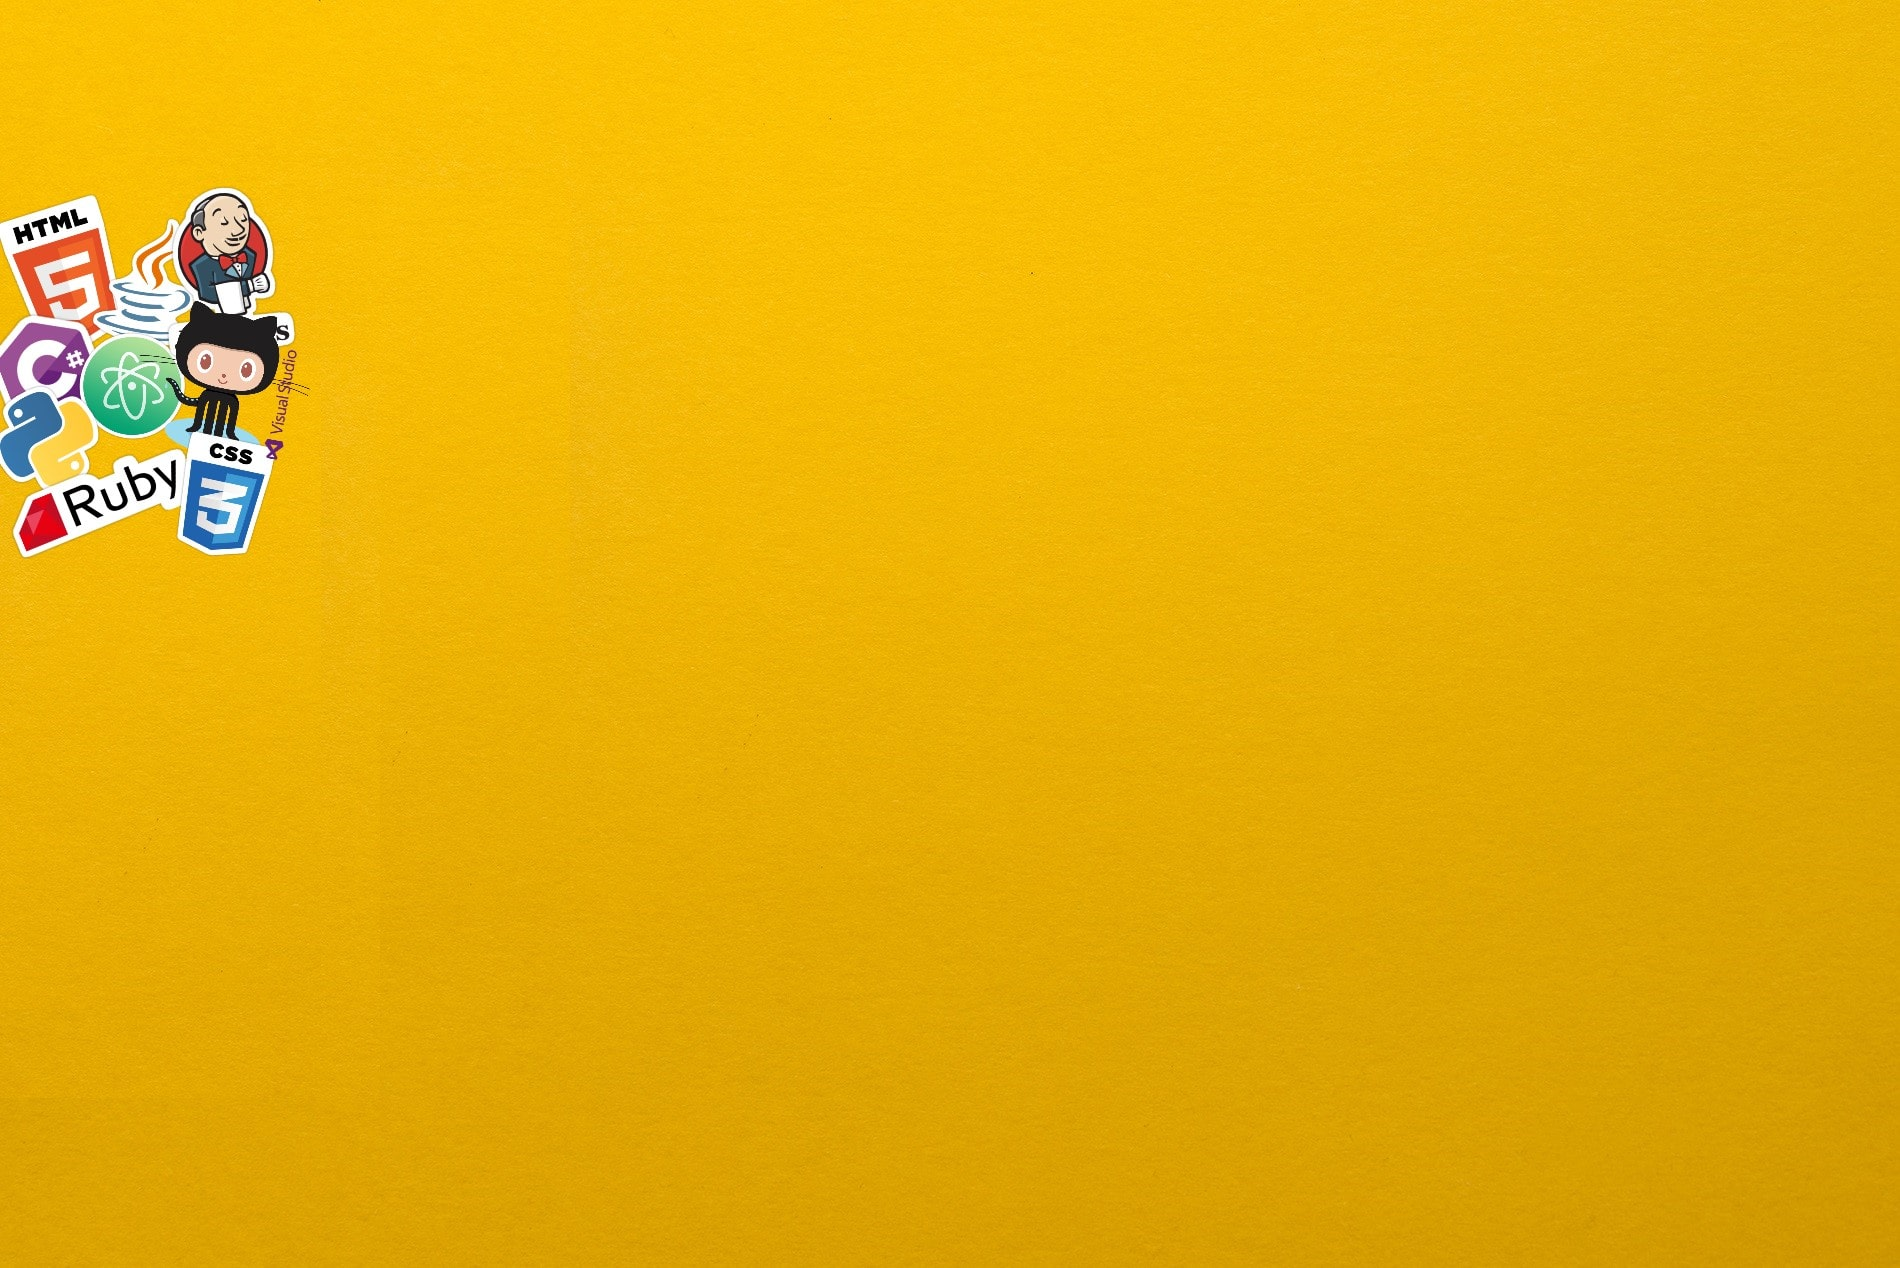
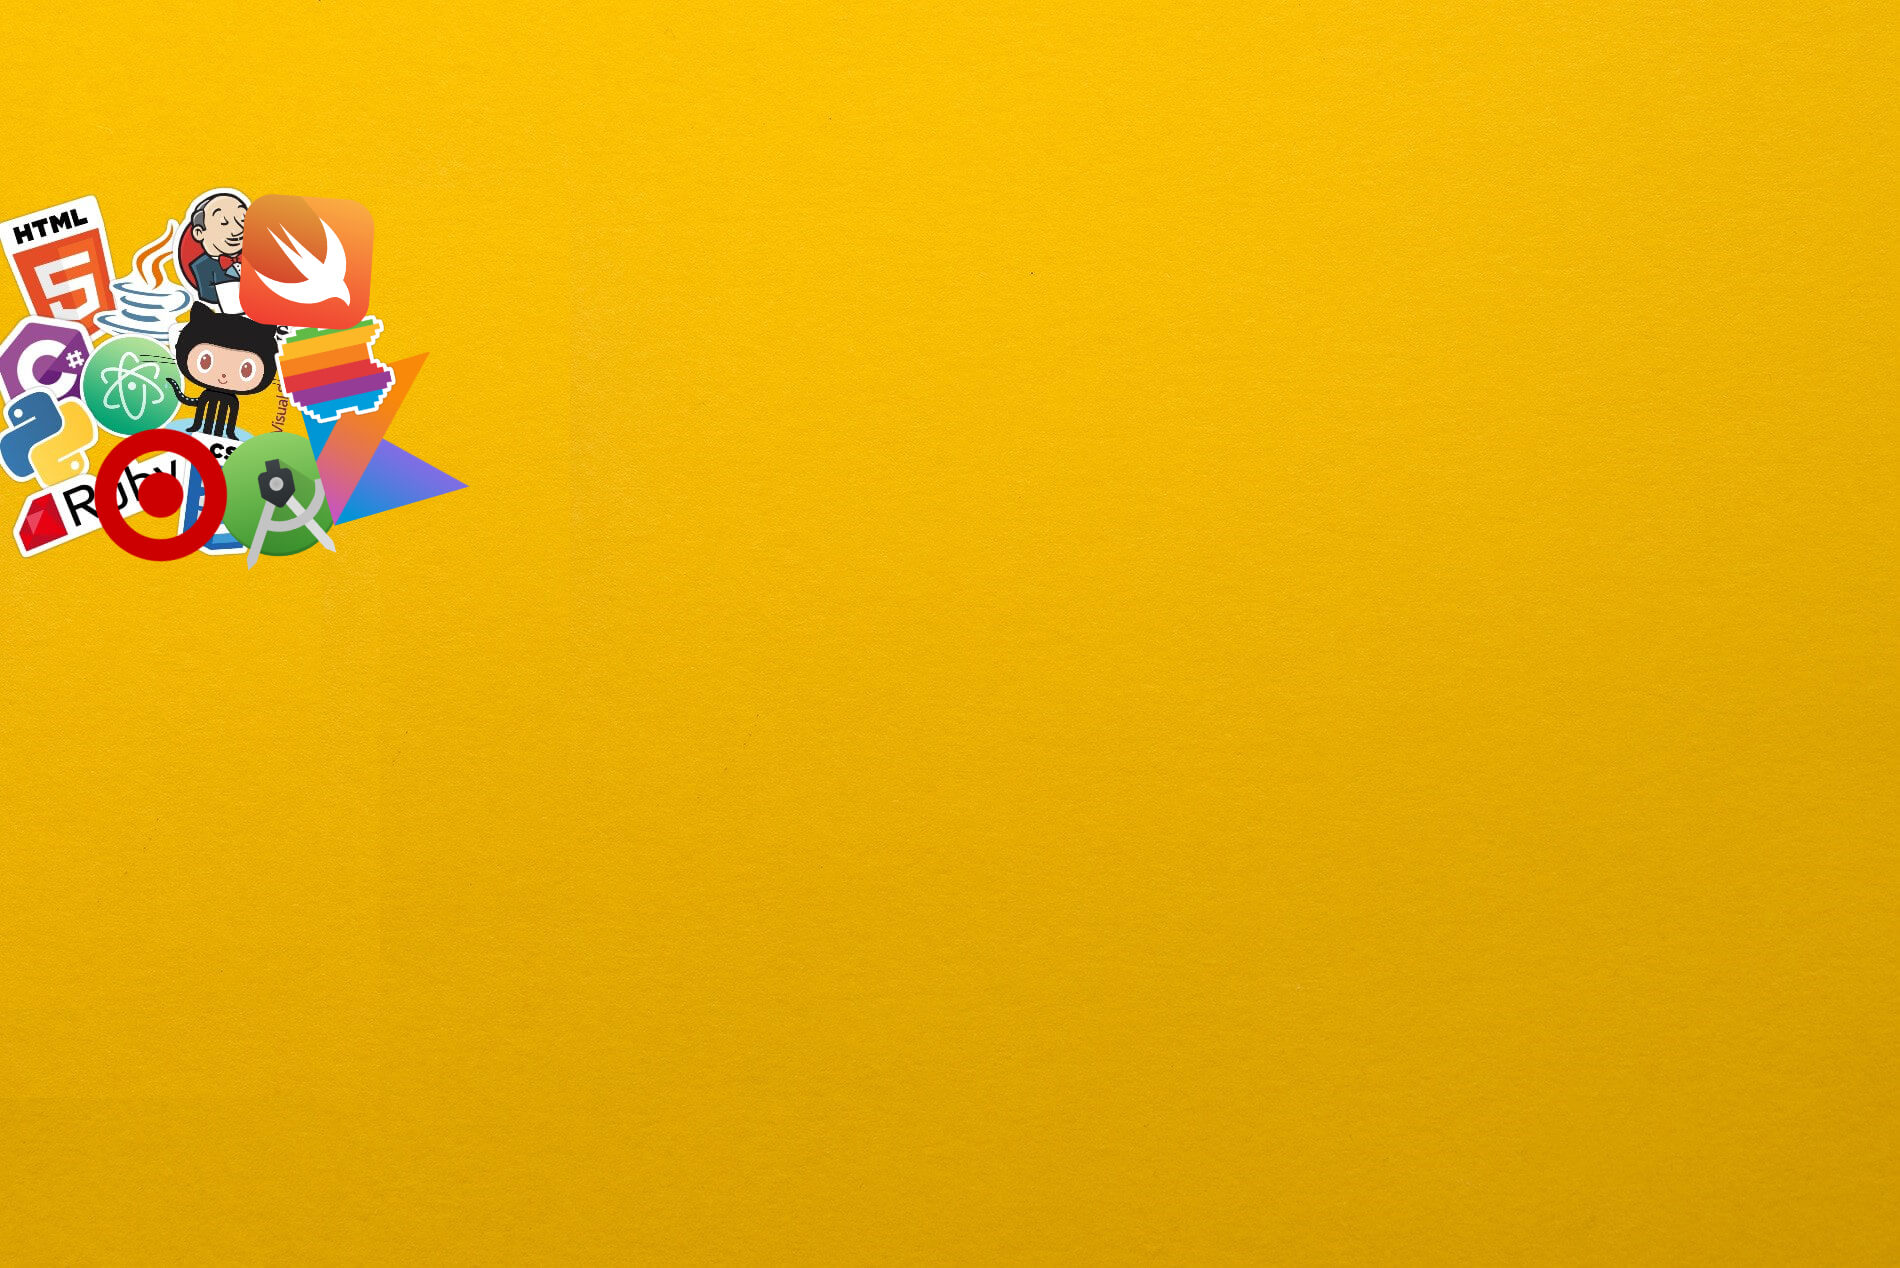
add new image, update info

Changed region(s): [[0.0311, 0.1538, 0.2484, 0.4614]]

diff --git a/css/stylish-portfolio.min.css b/css/stylish-portfolio.min.css
@@ -1,6 +1,5 @@
 /*!
  * Start Bootstrap - Stylish Portfolio v5.0.6 (https://startbootstrap.com/template-overviews/stylish-portfolio)
- * Copyright 2013-2019 Start Bootstrap
+ * Copyright 2013-2020 Start Bootstrap
  * Licensed under MIT (https://github.com/BlackrockDigital/startbootstrap-stylish-portfolio/blob/master/LICENSE)
- 
- */body,html{width:100%;height:100%}body{font-family:'Lato','Arial',sans-serif}.col-sm-4{float:right}.btn-xl{padding:1.25rem 2.5rem}.content-section{padding-top:7.5rem;padding-bottom:7.5rem}#about{padding-bottom:0rem;padding-top:5rem}.content-section-heading h2{font-size:3rem}.content-section-heading h3{font-size:1rem;text-transform:uppercase}#name{font-weight:400}h1,h2,h3,h4,h5,h6{font-weight:700}.text-faded{color:rgba(255,255,255,.7)}.map{height:30rem}@media (max-width:992px){.map{height:75%}}.map iframe{pointer-events:none}.scroll-to-top{position:fixed;right:15px;bottom:15px;display:none;width:50px;height:50px;text-align:center;color:white;background:rgba(52,58,64,.5);line-height:45px}.scroll-to-top:focus,.scroll-to-top:hover{color:white}.scroll-to-top:hover{background:#343a40}.scroll-to-top i{font-weight:800}.masthead{min-height:30rem;position:relative;display:table;width:100%;height:auto;padding-top:8rem;padding-bottom:8rem;background:-webkit-gradient(linear,left top,right top,from(rgba(255,255,255,.1)),to(rgba(255,255,255,.1))),url(../img/bg-masthead.jpg);background:url(../img/bg-masthead.jpg);background-position:center;background-repeat:no-repeat;background-size:cover}.masthead h1{font-size:4rem;margin:0;padding:0}@media (min-width:992px){.masthead{height:100vh}.masthead h1{font-size:5.5rem}}#sidebar-wrapper{position:fixed;z-index:2;right:0;width:250px;height:100%;-webkit-transition:all 0.4s ease 0s;transition:all 0.4s ease 0s;-webkit-transform:translateX(250px);transform:translateX(250px);background:#1D809F;border-left:1px solid rgba(255,255,255,.1)}.sidebar-nav{position:absolute;top:0;width:250px;margin:0;padding:0;list-style:none}.sidebar-nav li.sidebar-nav-item a{display:block;text-decoration:none;color:#fff;padding:15px}.sidebar-nav li a:hover{text-decoration:none;color:#fff;background:rgba(255,255,255,.2)}.sidebar-nav li a:active,.sidebar-nav li a:focus{text-decoration:none}.sidebar-nav>.sidebar-brand{font-size:1.2rem;background:rgba(52,58,64,.1);height:80px;line-height:50px;padding-top:15px;padding-bottom:15px;padding-left:15px}.sidebar-nav>.sidebar-brand a{color:#fff}.sidebar-nav>.sidebar-brand a:hover{color:#fff;background:none}#sidebar-wrapper.active{right:250px;width:250px;-webkit-transition:all 0.4s ease 0s;transition:all 0.4s ease 0s}.menu-toggle{position:fixed;right:15px;top:15px;width:50px;height:50px;text-align:center;color:#fff;background:rgba(52,58,64,.5);line-height:50px;z-index:999}.menu-toggle:focus,.menu-toggle:hover{color:#fff}.menu-toggle:hover{background:#343a40}.service-icon{background-color:#fff;color:#1D809F;height:7rem;width:7rem;display:block;line-height:7.5rem;font-size:2.25rem;-webkit-box-shadow:0 3px 3px 0 rgba(0,0,0,.1);box-shadow:0 3px 3px 0 rgba(0,0,0,.1)}.callout{padding:15rem 0;background:-webkit-gradient(linear,left top,right top,from(rgba(255,255,255,.1)),to(rgba(255,255,255,.1))),url(../img/bg-callout.jpg);background:linear-gradient(90deg,rgba(255,255,255,.1) 0%,rgba(255,255,255,.1) 100%),url(../img/bg-callout.jpg);background-position:center center;background-repeat:no-repeat;background-size:cover}.callout h2{font-size:3.5rem;font-weight:700;display:block;max-width:30rem}.portfolio-item{display:block;position:relative;overflow:hidden;max-width:530px;margin:auto auto 1rem}.portfolio-item .caption{display:-webkit-box;display:-ms-flexbox;display:flex;height:100%;width:100%;background-color:rgba(33,37,41,.2);position:absolute;top:0;bottom:0;z-index:1}.portfolio-item .caption .caption-content{color:#fff;margin:auto 2rem 2rem}.portfolio-item .caption .caption-content h2{font-size:.8rem;text-transform:uppercase}.portfolio-item .caption .caption-content p{font-weight:300;font-size:1.2rem}@media (min-width:992px){.portfolio-item{max-width:none;margin:0}.portfolio-item .caption{-webkit-transition:-webkit-clip-path 0.25s ease-out,background-color 0.7s;-webkit-clip-path:inset(0);clip-path:inset(0)}.portfolio-item .caption .caption-content{-webkit-transition:opacity 0.25s;transition:opacity 0.25s;margin-left:5rem;margin-right:5rem;margin-bottom:5rem}.portfolio-item img{-webkit-transition:-webkit-clip-path 0.25s ease-out;-webkit-clip-path:inset(-1px);clip-path:inset(-1px)}.portfolio-item:hover img{-webkit-clip-path:inset(2rem);clip-path:inset(2rem)}.portfolio-item:hover .caption{background-color:rgba(29,128,159,.9);-webkit-clip-path:inset(2rem);clip-path:inset(2rem)}}footer.footer{padding-top:5rem;padding-bottom:5rem}footer.footer .social-link{display:block;height:4rem;width:4rem;line-height:4.3rem;font-size:1.5rem;background-color:#1D809F;-webkit-transition:background-color 0.15s ease-in-out;transition:background-color 0.15s ease-in-out;-webkit-box-shadow:0 3px 3px 0 rgba(0,0,0,.1);box-shadow:0 3px 3px 0 rgba(0,0,0,.1)}footer.footer .social-link:hover{background-color:#155d74;text-decoration:none}a{color:#1D809F}a:hover,a:focus,a:active{color:#155d74}.btn-primary{background-color:#1D809F!important;border-color:#1D809F!important;color:#fff!important}.btn-primary:hover,.btn-primary:focus,.btn-primary:active{background-color:#155d74!important;border-color:#155d74!important}.btn-secondary{background-color:#ecb807!important;border-color:#ecb807!important;color:#fff!important}.btn-secondary:hover,.btn-secondary:focus,.btn-secondary:active{background-color:#ba9106!important;border-color:#ba9106!important}.btn-dark{color:#fff!important}.btn{-webkit-box-shadow:0 3px 3px 0 rgba(0,0,0,.1);box-shadow:0 3px 3px 0 rgba(0,0,0,.1);font-weight:700}.bg-primary{background-color:#1D809F!important}.text-primary{color:#1D809F!important}.text-secondary{color:#ecb807!important}.js--wp-1,.js--wp-2,.js--wp-3,.js--wp-4,.js--wp-6{opacity:0;animation-duration:1s}.js--wp-5{animation-duration:1s;margin-left:1.5rem!important}.js--wp-6{margin: 0 auto}.js--wp-1.animated,.js--wp-2.animated,.js--wp-3.animated,.js--wp-4.animated,.js--wp-6.animated{opacity:1}
+ */body,html{width:100%;height:100%}body{font-family:'Poppins'}.btn-xl{padding:1.25rem 2.5rem}.content-section{padding-top:7.5rem;padding-bottom:7.5rem}.content-section-heading h2{font-size:3rem}.content-section-heading h3{font-size:1rem;text-transform:uppercase}h1,h2,h3,h4,h5,h6{font-weight:700}.text-faded{color:rgba(255,255,255,.7)}.map{height:30rem}@media (max-width:992px){.map{height:75%}}.map iframe{pointer-events:none}.scroll-to-top{position:fixed;right:15px;bottom:15px;display:none;width:50px;height:50px;text-align:center;color:#fff;background:rgba(52,58,64,.5);line-height:45px}.scroll-to-top:focus,.scroll-to-top:hover{color:#fff}.scroll-to-top:hover{background:#343a40}.scroll-to-top i{font-weight:800}.masthead{min-height:30rem;position:relative;display:table;width:100%;height:auto;padding-top:8rem;padding-bottom:8rem;background:-webkit-gradient(linear,left top,right top,from(rgba(255,255,255,.1)),to(rgba(255,255,255,.1))),url(../img/bg-masthead.jpg);background:linear-gradient(90deg,rgba(255,255,255,.1) 0,rgba(255,255,255,.1) 100%),url(../img/bg-masthead.jpg);background-position:center center;background-repeat:no-repeat;background-size:cover}.masthead h1{font-size:4rem;margin:0;padding:0}@media (min-width:992px){.masthead{height:100vh}.masthead h1{font-size:5.5rem}}#sidebar-wrapper{position:fixed;z-index:2;right:0;width:250px;height:100%;-webkit-transition:all .4s ease 0s;transition:all .4s ease 0s;-webkit-transform:translateX(250px);transform:translateX(250px);background:#1d809f;border-left:1px solid rgba(255,255,255,.1)}.sidebar-nav{position:absolute;top:0;width:250px;margin:0;padding:0;list-style:none}.sidebar-nav li.sidebar-nav-item a{display:block;text-decoration:none;color:#fff;padding:15px}.sidebar-nav li a:hover{text-decoration:none;color:#fff;background:rgba(255,255,255,.2)}.sidebar-nav li a:active,.sidebar-nav li a:focus{text-decoration:none}.sidebar-nav>.sidebar-brand{font-size:1.2rem;background:rgba(52,58,64,.1);height:80px;line-height:50px;padding-top:15px;padding-bottom:15px;padding-left:15px}.sidebar-nav>.sidebar-brand a{color:#fff}.sidebar-nav>.sidebar-brand a:hover{color:#fff;background:0 0}#sidebar-wrapper.active{right:250px;width:250px;-webkit-transition:all .4s ease 0s;transition:all .4s ease 0s}.menu-toggle{position:fixed;right:15px;top:15px;width:50px;height:50px;text-align:center;color:#fff;background:rgba(52,58,64,.5);line-height:50px;z-index:999}.menu-toggle:focus,.menu-toggle:hover{color:#fff}.menu-toggle:hover{background:#343a40}.service-icon{background-color:#fff;color:#1d809f;height:7rem;width:7rem;display:block;line-height:7.5rem;font-size:2.25rem;-webkit-box-shadow:0 3px 3px 0 rgba(0,0,0,.1);box-shadow:0 3px 3px 0 rgba(0,0,0,.1)}.callout{padding:15rem 0;background:-webkit-gradient(linear,left top,right top,from(rgba(255,255,255,.1)),to(rgba(255,255,255,.1))),url(../img/bg-callout.jpg);background:linear-gradient(90deg,rgba(255,255,255,.1) 0,rgba(255,255,255,.1) 100%),url(../img/bg-callout.jpg);background-position:center center;background-repeat:no-repeat;background-size:cover}.callout h2{font-size:3.5rem;font-weight:700;display:block;max-width:30rem}.portfolio-item{display:block;position:relative;overflow:hidden;max-width:530px;margin:auto auto 1rem}.portfolio-item .caption{display:-webkit-box;display:-ms-flexbox;display:flex;height:100%;width:100%;background-color:rgba(33,37,41,.2);position:absolute;top:0;bottom:0;z-index:1}.portfolio-item .caption .caption-content{color:#fff;margin:auto 2rem 2rem}.portfolio-item .caption .caption-content h2{font-size:.8rem;text-transform:uppercase}.portfolio-item .caption .caption-content p{font-weight:300;font-size:1.2rem}@media (min-width:992px){.portfolio-item{max-width:none;margin:0}.portfolio-item .caption{-webkit-transition:-webkit-clip-path .25s ease-out,background-color .7s;-webkit-clip-path:inset(0);clip-path:inset(0)}.portfolio-item .caption .caption-content{-webkit-transition:opacity .25s;transition:opacity .25s;margin-left:5rem;margin-right:5rem;margin-bottom:5rem}.portfolio-item img{-webkit-transition:-webkit-clip-path .25s ease-out;-webkit-clip-path:inset(-1px);clip-path:inset(-1px)}.portfolio-item:hover img{-webkit-clip-path:inset(2rem);clip-path:inset(2rem)}.portfolio-item:hover .caption{background-color:rgba(29,128,159,.9);-webkit-clip-path:inset(2rem);clip-path:inset(2rem)}}footer.footer{padding-top:5rem;padding-bottom:5rem}footer.footer .social-link{display:block;height:4rem;width:4rem;line-height:4.3rem;font-size:1.5rem;background-color:#1d809f;-webkit-transition:background-color .15s ease-in-out;transition:background-color .15s ease-in-out;-webkit-box-shadow:0 3px 3px 0 rgba(0,0,0,.1);box-shadow:0 3px 3px 0 rgba(0,0,0,.1)}footer.footer .social-link:hover{background-color:#155d74;text-decoration:none}a{color:#1d809f}a:active,a:focus,a:hover{color:#155d74}.btn-primary{background-color:#1d809f!important;border-color:#1d809f!important;color:#fff!important}.btn-primary:active,.btn-primary:focus,.btn-primary:hover{background-color:#155d74!important;border-color:#155d74!important}.btn-secondary{background-color:#ecb807!important;border-color:#ecb807!important;color:#fff!important}.btn-secondary:active,.btn-secondary:focus,.btn-secondary:hover{background-color:#ba9106!important;border-color:#ba9106!important}.btn-dark{color:#fff!important}.btn{-webkit-box-shadow:0 3px 3px 0 rgba(0,0,0,.1);box-shadow:0 3px 3px 0 rgba(0,0,0,.1);font-weight:700}.bg-primary{background-color:#1d809f!important}.text-primary{color:#1d809f!important}.text-secondary{color:#ecb807!important}

diff --git a/index.html b/index.html
@@ -75,7 +75,7 @@
   <header class="masthead d-flex">
     <div class="container text-center my-auto">
       <h1 class="mb-1" id = "name">Abdi Sheikh</h1>
-      <a class="btn btn-primary btn-xl js-scroll-trigger" href="#about">Curious to learn more?</a>
+      <a class="btn btn-outline-secondary btn-xl js-scroll-trigger" href="#about">Curious to learn more?</a>
     </div>
 
     <div class="overlay"></div>
@@ -90,14 +90,14 @@
       <div class="row">
         <div class="col-sm-8 mx-auto js--wp-1">
           <h2>About Me!</h2>
-          <p class="lead mb-5">I'm Abdirahman Sheikh-Mohamed, an aspiring full-stack developer currently expanding my front-end skills with projects such as this site!
+          <p class="lead mb-5">I'm Abdirahman Sheikh-Mohamed, a software developer expanding my front-end skills with projects such as this site!
 
-              Currently working as a engineer, I've gained experience with Java, Python, C#, HTML, Ruby on Rails, and JavaScript.
+              Currently working as a mobile engineer, I've gained experience with Java, Kotlin, Swift, Android Studio and Xcode.
 
-              Javascript is my main focus at the moment and then it is on to React. Follow my journey as I work on more projects to sharpen my skills and help me achieve my goals and aspirations!
+              iOS development is my main focus at the moment and hoping to get a few apps into the App Store. Follow my journey as I work on more projects to sharpen my skills achieve my goals and aspirations!
         </div>
         <div class="col-sm-4 mx-auto js--wp-2">
-          <img src="img/bite.png" alt="thats me" style="width: 100%" ></bitmoji>
+          <img src="img/laptop.png" alt="thats me" style="width: 100%" ></bitmoji>
         </div>
       </div>
     </div>
@@ -110,6 +110,7 @@
         <h3 class="text-secondary mb-0">Portfolio</h3>
         <h2 class="mb-5">Recent Projects</h2>
       </div>
+        <!-- Udemy Course -->
       <div class="row no-gutters">
         <div class="col-lg-6 js--wp-3">
           <a class="portfolio-item" href="https://abdi-sheikh.github.io/omnifoodz/">
@@ -123,18 +124,20 @@
           </a>
         </div>
 
+          <!-- Snake js -->
         <div class="col-lg-6 js--wp-4">
           <a class="portfolio-item" href="https://abdi-sheikh.github.io/snake/">
             <span class="caption">
               <span class="caption-content">
                 <h2>Snake</h2>
-                <p class="mb-0">A quick js snake game that is still in progress.</p>
+                <p class="mb-0">A quick js snake game.</p>
               </span>
             </span>
             <img class="img-fluid" src="img/portfolio-5.jpg" alt="">
           </a>
         </div>
 
+          <!-- Weather api-->
         <div class="col-lg-6 js--wp-6">
           <a class="portfolio-item" href="https://abdi-sheikh.github.io/weatherchallenge">
             <span class="caption">
@@ -146,6 +149,19 @@
             <img class="img-fluid" src="img/portfolio-7.png" alt="">
           </a>
         </div>
+
+          <!-- Magic Mirror -->
+        <div class="col-lg-6 js--wp-6">
+          <a class="portfolio-item" href="">
+            <span class="caption">
+              <span class="caption-content">
+                <h2>Magic Mirror</h2>
+                <p class="mb-0">A smart mirror built using raspberry pi. Page detailing the build coming soon...</p>
+              </span>
+            </span>
+            <img class="img-fluid" src="img/portfolio-8.jpg" alt="">
+          </a>
+        </div>
       </div>
     </div>
   </section>
@@ -154,7 +170,7 @@
   <section class="content-section bg-primary text-white" id ="resume">
     <div class="container text-center">
       <h2 class="mb-4">For more information</h2>
-      <a href="vendor/pdf/web/viewer.html?file=2019 resume.pdf" class="btn btn-xl btn-light mr-4 js--wp-5">My Resume!</a>
+      <a href="vendor/pdf/web/viewer.html?file=Abdi Sheikh 2020 resume.pdf" class="btn btn-xl btn-light mr-4 js--wp-5">My Resume!</a>
 
     </div>
   </section>

diff --git a/css/stylish-portfolio.css b/css/stylish-portfolio.css
@@ -1,6 +1,6 @@
 /*!
  * Start Bootstrap - Stylish Portfolio v5.0.6 (https://startbootstrap.com/template-overviews/stylish-portfolio)
- * Copyright 2013-2019 Start Bootstrap
+ * Copyright 2013-2020 Start Bootstrap
  * Licensed under MIT (https://github.com/BlackrockDigital/startbootstrap-stylish-portfolio/blob/master/LICENSE)
  */
 
@@ -11,28 +11,16 @@ html {
 }
 
 body {
-  font-family: 'Lato' , 'Arial', sans-serif;
+  font-family: 'Poppins';
 }
-
-.col-sm-4 {
-  float: right;
-
-}
-
 
 .btn-xl {
   padding: 1.25rem 2.5rem;
-  
 }
 
 .content-section {
   padding-top: 7.5rem;
   padding-bottom: 7.5rem;
-}
-
-#about{
-  padding-bottom: 0rem;
-  padding-top: 5rem;
 }
 
 .content-section-heading h2 {
@@ -42,10 +30,6 @@ body {
 .content-section-heading h3 {
   font-size: 1rem;
   text-transform: uppercase;
-}
-
-#name{
-  font-weight: 400;
 }
 
 h1,
@@ -110,13 +94,11 @@ h6 {
   padding-top: 8rem;
   padding-bottom: 8rem;
   background: -webkit-gradient(linear, left top, right top, from(rgba(255, 255, 255, 0.1)), to(rgba(255, 255, 255, 0.1))), url("../img/bg-masthead.jpg");
-  background:  url("../img/bg-masthead.jpg");
-  background-position: center;
+  background: linear-gradient(90deg, rgba(255, 255, 255, 0.1) 0%, rgba(255, 255, 255, 0.1) 100%), url("../img/bg-masthead.jpg");
+  background-position: center center;
   background-repeat: no-repeat;
   background-size: cover;
 }
-
-
 
 .masthead h1 {
   font-size: 4rem;
@@ -392,34 +374,4 @@ a:hover, a:focus, a:active {
 
 .text-secondary {
   color: #ecb807 !important;
-}
-
-
-/*---------------------------------------------- */
-/*Animations*/
-/*---------------------------------------------- */
-.js--wp-1,
-.js--wp-2,
-.js--wp-3,
-.js--wp-4,
-.js--wp-6{
-  opacity: 0;
-  animation-duration: 1s;
-}
-
-.js--wp-5{
-  animation-duration: 1s;
-  margin-left: 1.5rem!important;
-}
-
-.js--wp-6{
-  margin-left: 18rem!important;
-}
-
-.js--wp-1.animated,
-.js--wp-2.animated,
-.js--wp-3.animated,
-.js--wp-4.animated,
-.js--wp-6.animated{
-  opacity: 1;
 }
